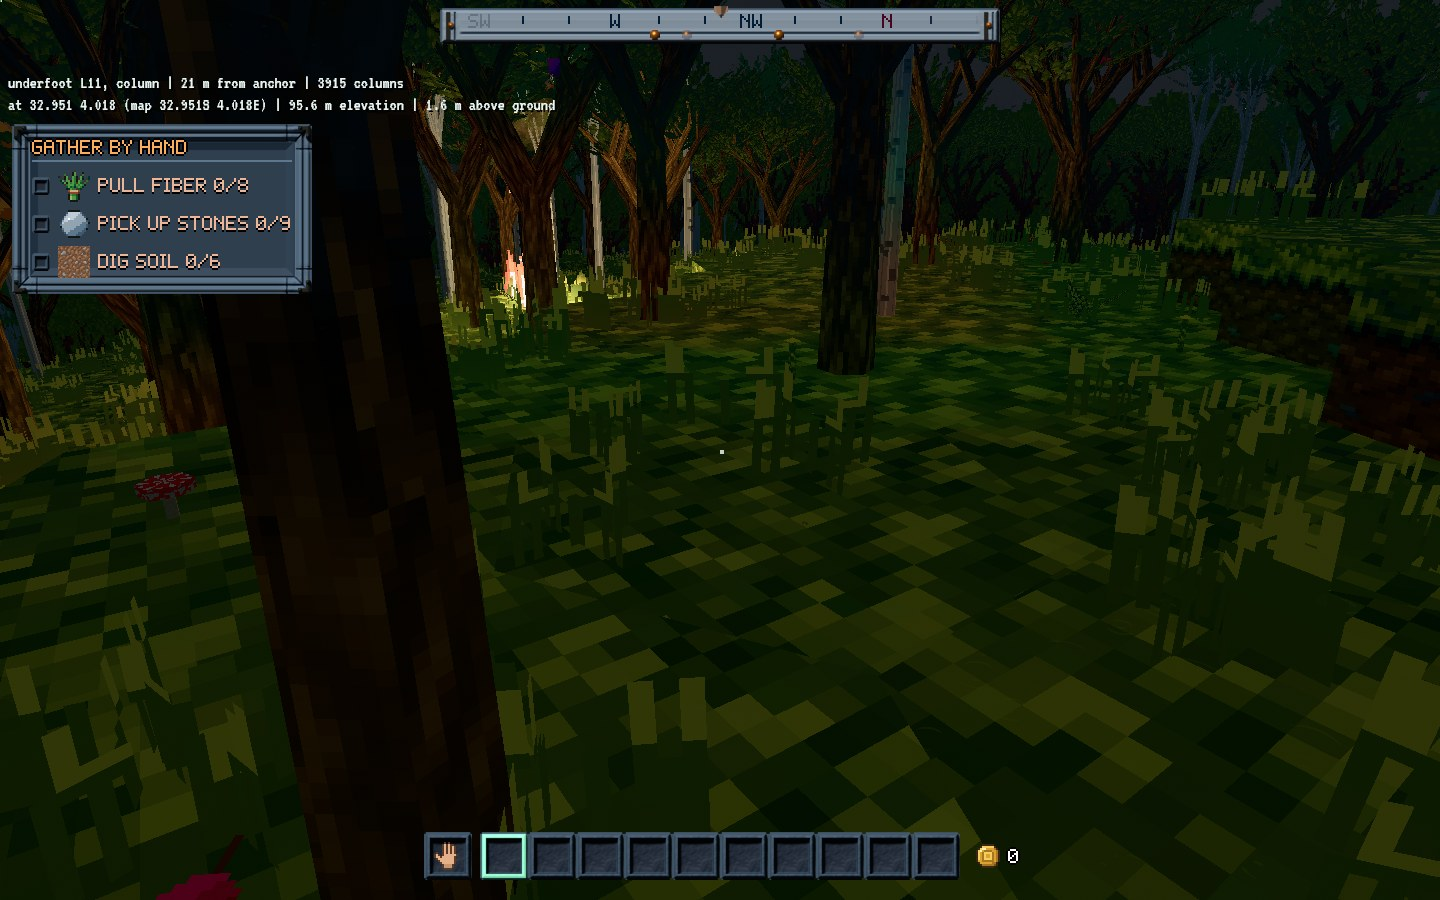
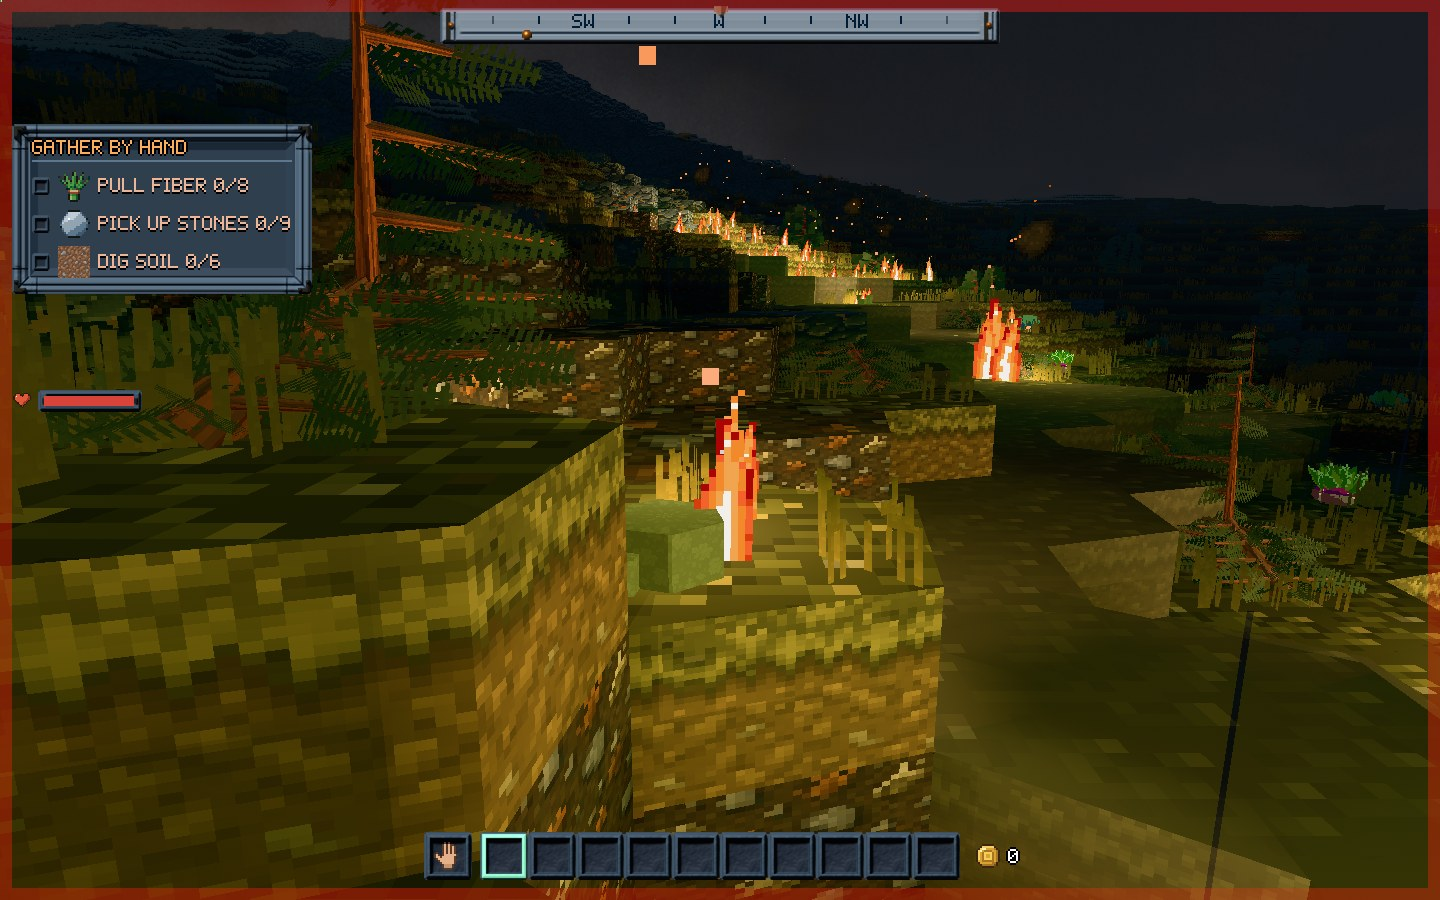
wildfire 4.2: the shots retaken so the fire reads
On a dry mountain meadow (found by find_dry_grassland), no debug readout:
a grass fire's front at night at its widest, a pine lit at its foot and
the grass it fired, the same scar the next day with the pine standing
charred, and 30 days on with the grass back and the pine a sapling; a
lamp row and the torch in hand in the rain, lit and then put out. The
torch-out scene now puts out every placed torch from frame 20 on and the
torch in hand too. Rendered on lavapipe; perf_suite.py not run (no GPU).

Claude-Session: https://claude.ai/code/session_01RGPQut43HZDbTofZKV6sxg

diff --git a/crates/pbd-app/src/wildfire.rs b/crates/pbd-app/src/wildfire.rs
@@ -280,7 +280,8 @@ pub struct Scars {
 ///   before the clock, so the shot shows its scar;
 /// - `tree[:<ticks>]` and `tree-snag:<days>`: the same with the driest tree
 ///   in view, burning and then charred;
-/// - `torch-out`: every placed torch put out by the rain.
+/// - `torch-out`: every placed torch, and the torch in hand, put out by the
+///   rain.
 ///
 /// Unset, nothing is forced.
 pub fn capture_scene() -> Option<String> {
@@ -336,6 +337,7 @@ pub fn instrument(
     sun: Option<Res<crate::sky::Sun>>,
     frame: Option<Res<crate::planet::PlanetRenderFrame>>,
     cameras: Query<(&Camera, &GlobalTransform), With<Camera3d>>,
+    mut torch_out: ResMut<TorchOut>,
     mut done: Local<u32>,
 ) {
     let Some(scene) = capture_scene() else {
@@ -364,18 +366,20 @@ pub fn instrument(
         save.identity.mode = Some(pbd_core::survival::WorldMode::Survival);
     }
     *done += 1;
-    // A few frames in, once the camera stands where the shot is taken.
-    if *done != 20 {
-        return;
-    }
-    let cfg = &rules.0;
+    // The rain's work: from a few frames in, every placed torch (whenever
+    // a scripted row puts one down) and the torch in hand are out.
     if scene == "torch-out" {
+        torch_out.held = *done >= 20;
+        if *done < 20 {
+            return;
+        }
         let torches: Vec<(u32, u16)> = save
             .edits
             .all()
             .into_iter()
             .filter(|e| e.material == Material::Torch)
             .map(|e| (e.cell, e.layer))
+            .filter(|&(c, l)| !torch::is_out(&save.records, c, l))
             .collect();
         for (cell, layer) in torches {
             let proposal = Proposal {
@@ -388,6 +392,11 @@ pub fn instrument(
         }
         return;
     }
+    // A few frames in, once the camera stands where the shot is taken.
+    if *done != 20 {
+        return;
+    }
+    let cfg = &rules.0;
     let Some((_, eye)) = cameras.iter().find(|(c, _)| c.is_active) else {
         warn!("FIRE_CAPTURE {scene}: no camera");
         return;

diff --git a/docs/screenshots/wildfire/wildfire.md b/docs/screenshots/wildfire/wildfire.md
@@ -1,30 +1,40 @@
-# wildfire 4.2 and 4.3 in the game
+# wildfire 4.2 to 4.4 in the game
 
 Headless `--capture` stills from a Claude Code cloud container with no GPU,
 rendered on lavapipe (software Vulkan): they show what things look like,
 never how fast they draw; no frame time was measured and `perf_suite.py`
-was not run. Made by `tools/capture_wildfire.sh`; the scene is set by the
-capture instrument `PBD_FIRE=<scene>` (nothing a player meets): the
-memory-only world is made a Survival one, the weather the rule reads is
-held at two dry weeks of late summer, and the instrument lights the driest
-plant in view 5 to 20 m ahead (24 for a scar) with the player's own `wildfire::light`, then
-runs the server's own ticks (`wildfire::run_once`). The fire shots stand on
-a fields wood at `--at 32.9505 4.01833`; the torch shots on the survival
-meadow at `--at -37.5 -84`.
+was not run. Made by `tools/capture_wildfire.sh`, with no debug readout
+(`--no-readout`).
+
+The scene is set by the capture instrument `PBD_FIRE=<scene>` (nothing a
+player meets): the memory-only world is made a Survival one; the air the
+rule reads is held at two dry weeks of late summer with a 3 m/s west wind,
+and the drawn sky is held dry to match; the instrument lights the driest
+plant (or tree) in view 5 to 14 m ahead with the player's own
+`wildfire::light`, then runs the server's own ticks (`wildfire::run_once`)
+to the tick the fire burns widest, found by a dry run of the rule, or, for
+a scar, until it is out, back-dated by its days. The fire shots stand on a
+dry mountain meadow of grass and a few pines at `--at -37.5 -107.5`, found
+by the ignored test `wildfire::tests::find_dry_grassland` (291 of its 421
+cells near read `plant_dry` 0.7 or more in the dry season); the torch shots
+on the survival meadow at `--at -37.5 -84`. `--time` is the world clock's
+hour, not local: at longitude -107.5 the clock's 02:30 is dusk-dark and
+19:12 is about local noon.
 
 | Shot | Scene | What it shows |
 | --- | --- | --- |
-| `front-night.jpg` | `front:25`, 02:30 | A fire at night, ahead between the oaks: the torch sheet's flames on the burning cell, and its light in the cell light field on the trunks, the tufts and the ground round it, under a dim moon. The plant it was lit on reads `plant_dry` 0.77 (an oak wood's floor in late summer), so it is a one- or two-cell fire, as decision 12 wants on marginal ground; the shot is stopped while it still burns. |
-| `scar-next-day.jpg` | `scar:1`, 15:00 | A 20-cell fire's scar a world day later, about 20 m ahead beyond the birch: the burnt cells' tops ash grey in their own texels, no tufts or clutter on them, the green meadow round it untouched (the fire went out at greener ground on its own). |
-| `scar-day-30.jpg` | `scar:30`, 15:00 | The same fire 30 days on: the grass and its tufts are back on every cell (whole by day 8) and the ash is gone. No tree burnt in this fire; a burnt tree would stand here as a sapling of its species, a quarter of the way to whole. |
-| `torch-lit-rain.jpg` | none, 02:30, rain 1 | BEFORE: a placed torch (`--torch`, under the camera) lighting the wet ground round it in the rain. |
-| `torch-out-rain.jpg` | `torch-out`, 02:30, rain 1 | AFTER: the same torch put out by the rain (the world's `lamp_out` record): the field round it is dark. The torch itself stands below the frame; it is still drawn, with no flame (test `wildfire::tests::an_out_torch_is_drawn_dark_and_lights_nothing`). |
+| `front-night.jpg` | `front:90`, night | A grass fire at its widest (31 cells alight, 44 burnt, 70 s in): a line of flame running along the slope ahead and a near cell burning a few metres off, each lighting the grass, the terraces and the pines round it through the cell light field, embers rising. The red edge and the health bar are the harm (`Cause::Fire`): the player stands beside a burning cell. |
+| `tree-burning-night.jpg` | `tree:25`, night | A pine lit at its foot (the small pine on the right), and the fire it started in the dry grass round it, 28 cells alight 25 s in: flames on the torch's sheet, embers, the meadow lit orange. |
+| `tree-snag-next-day.jpg` | `tree-snag:1`, local noon | The same kind of fire's scar a world day after it went out (165 cells), from a few metres off: the burnt ground ash grey with no tufts or clutter, and the pine standing charred where it burnt (centre: a ground fire's look, its own model with the needles browned and the foot black). The axe takes it for charcoal. |
+| `tree-snag-day-30.jpg` | `tree-snag:30`, local noon | The same view 30 world days after: the grass and its tufts are back on every burnt cell (whole by day 8), the ash gone, and the burnt pine a sapling of its own species (right), a quarter of the way to whole; it stands full-grown again at day 60. |
+| `torch-lit-rain.jpg` | none, night, rain 1 | BEFORE: a row of every lamp 3 m ahead (`--lamps`), the placed torch among them burning (its light the orange on the tree behind), and the torch in hand alight, in the rain. |
+| `torch-out-rain.jpg` | `torch-out`, night, rain 1 | AFTER: the rain has put out the torch in hand (drawn, its head with no flame) and the placed torch (the world's `lamp_out` record; it stands just out of frame, and the orange its light threw on the tree behind is gone); the lanterns beside it, which the rain does not put out, still burn. |
 
 Unsure of, for the owner:
-- The fires in these shots are small: the wood's floor is shaded and near
-  the generator's streams, so it sits near the 0.5 line. A larger front
-  wants an open, dry field away from water, which this capture's spot is not.
-- The ash is a flat warm grey with the tile's grain; the mockup's has more
-  variation, and the shoots of day 2 are not drawn apart from it.
-- Smoke at night reads faintly; its puffs are lit by the field, so they are
-  dark away from the flames.
+- Smoke reads faintly at night: its puffs are lit by the field and glow a
+  little over the flames, and go dark against the night sky above them.
+- The ash is a flat warm grey with the tile's grain; the shoots of day 2
+  are not drawn apart from it.
+- A ground fire leaves a tree standing scorched (whole model, foot black,
+  leaves browned); only a very dry conifer in 6 m/s of wind or more burns
+  in its crown and leaves the bare snag, which no shot here shows.

diff --git a/openspec/changes/wildfire/tasks.md b/openspec/changes/wildfire/tasks.md
@@ -17,7 +17,7 @@ mockup first; game code waits on their approval and a request to build.
 
 - [x] 3.1 `pbd_core::fire`: the fuel table from the generator (design 3), the `blaze` record and its lines, the one-second spread in cell-key order with seeded hashes, reading each neighbour's `plant_dry` (design 5), no ember throw, the limits (2 blazes, 300 cells, 40 burning). Verify: the design's Verification tests, decision 12's worked examples inside their ranges, a pentagon's five neighbours, and two runs and a reload mid-fire agreeing cell for cell. Tests: `fire::tests::a_late_summer_grass_fire_stays_small_and_slow`, `a_fire_on_open_dry_grass_stops_at_its_limits`, `a_pentagon_cell_tries_its_five_neighbours`, `the_same_blaze_burns_the_same_cells_on_two_runs_and_across_a_reload`, `a_torch_on_late_summer_grass_starts_a_blaze_and_a_third_is_a_damp_flame`, `lightning_starts_a_blaze_only_when_dry_and_once_in_its_quiet_spell`.
 - [x] 3.2 Stopping (design 7): rain, water, bare and green breaks, grazed pasture, the bucket, the yield set; a burnt cell unburnable until its grass is whole (design 8). Verify: a test each; a player's field and fence untouched. Tests: `fire::tests::rain_stops_a_front`, `a_front_goes_out_at_a_green_river_bank`, `a_bucket_puts_out_a_cell_and_its_neighbours`, `a_dug_line_and_the_players_field_hold`, `a_burnt_cell_cannot_burn_again_until_its_grass_is_whole`.
-- [x] 3.3 The scar and regrowth (design 8), charcoal from a snag. Verify: tests by day. Test: `fire::tests::the_scar_grows_back_by_day` (`scar::snag_gives` gives the charcoal; the chop in the game is 4.2's).
+- [x] 3.3 The scar and regrowth (design 8), charcoal from a snag. Verify: tests by day. Test: `fire::tests::the_scar_grows_back_by_day` (`scar::snag_gives` gives the charcoal); in the game the axe on a snag gives `charcoal` and fells it, test `wildfire::tests::a_snag_chopped_gives_charcoal_and_is_felled`.
 - [x] 3.4 `assets/config/fire.ron` (design 11), validated, the one source of defaults. Test: `fire::tests::the_shipped_file_parses_and_validates`.
 
 ## 4. In the game
@@ -25,7 +25,7 @@ mockup first; game code waits on their approval and a request to build.
 - [x] 4.1 The server ticks blazes in Survival worlds only; ignition by a lit torch (design 6). Verify: an app test that a torch on late-summer grass starts a blaze and on spring-green grass does not; an Explorer world never makes one. Tests: `wildfire::tests::a_torch_on_late_summer_grass_starts_a_blaze_and_the_server_spreads_it`, `a_torch_on_spring_grass_makes_a_damp_flame_and_explorer_none`.
 - [x] 4.2 Flames, smoke, embers and the fire's light in the cell light field; the burnt-cell table for the ground and tree draws. Verify: `--capture` shots at night at the front, the scar the next day and at day 30, in `docs/screenshots/wildfire/`; on the owner's hardware, `perf_suite.py` before and after with a forced blaze (not in a cloud session). Built: `wildfire/fx.rs` (flames on the torch sheet, embers, field-lit smoke, snags and saplings from the tree's own model), the fire's light as lamps in the column tier (`ColumnTier::set_fire`), the scar in the tier's record words and the ash bit in `planet_surface.wgsl`. Shots in `docs/screenshots/wildfire/` (`wildfire.md`), lavapipe; `perf_suite.py` waits for the owner's hardware.
 - [x] 4.3 Torches in the rain (design 9): `lamp_out`, the held torch, relighting. Verify: an app test with forced rain, a roof keeping one lit, a reload keeping one out; Explorer's never going out. Tests: `wildfire::tests::a_placed_torch_goes_out_in_forced_rain_and_a_roof_keeps_one_lit`, `an_out_torch_is_drawn_dark_and_lights_nothing`; the held torch and F's relighting in `desktop/fire_play.rs` (design, "As built: in the game").
-- [ ] 4.4 Danger to the living (design 10). Verify: an app test that standing in fire hurts and animals flee. Built: the player's harm and warmth (`desktop/fire_play.rs`), `harm_at` and `flee_from` (test `wildfire::tests::standing_in_fire_hurts_and_animals_flee`). Open: wiring `flee_from` into the herds, whose file is in another change's hands.
+- [x] 4.4 Danger to the living (design 10). Verify: an app test that standing in fire hurts and animals flee. Built: the player's harm and warmth (`desktop/fire_play.rs`), `harm_at` and `flee_from` (test `wildfire::tests::standing_in_fire_hurts_and_animals_flee`). Every animal runs from fire in the herds' step (`husbandry::fire_goal`), test `husbandry::tests::animals_run_from_a_burning_cell`.
 - [ ] 4.5 The dry strike, once `lightning-fire` is built (design 6), with its quiet spell (10 world days within 2 km). Verify: a `--strike-at` test in a dry place and a wet one, and a second strike in the quiet spell starting nothing.
 - [ ] 4.6 Multiplayer: two clients, one fire. Verify: the two-machine procedure (`multiplayer` design 20) shows the same scar.
 

diff --git a/openspec/changes/wildfire/design.md b/openspec/changes/wildfire/design.md
@@ -602,14 +602,27 @@ Recommendations taken (ask only with screenshots):
 - **Danger**: the player's harm is `harm_at` (in a burning cell, within
   0.6 of a cell; beside it, within 1.5 cells), taken a whole point at a
   time through the survival server (`Cause::Fire`), and the warmth is
-  `survival.ron`'s `wildfire` row. Animals' flight is `flee_from`, built
-  and tested; wiring it into the herds (`husbandry.rs`) waits for the
-  combat change in flight in that file.
-- **Charcoal from a snag** is `scar::snag_gives`; the axe on a snag in
-  the game waits: the axe's chop is the digging change in flight, and a
-  burnt tree's cleared bit hides it from `grows_tree` meanwhile.
-- **Capture instrument**: `PBD_FIRE=front[:ticks] | scar:<days> |
-  torch-out` (`wildfire::capture_scene`), `tools/capture_wildfire.sh`.
+  `survival.ron`'s `wildfire` row. Every animal, wild, kept or hunting,
+  within `flee_m` of a burning cell runs 12 m on away from the nearest
+  flame at its run (`husbandry::fire_goal`); a herd's members, standing
+  together, run the same way, and a kept animal stays in its pen.
+- **Charcoal from a snag**: a burnt tree standing charred (`Snag` or
+  `Scorched`) is a trunk the axe meets; its one stroke gives
+  `snag.count` of a new good, `charcoal` (worth what coal is; as a forge
+  fuel it waits on the forge's own change), and fells the tree in the
+  same line (`wildfire::take_snag`), so its stump regrows as a felled
+  tree's does and the snag leaves the draw. A sapling gives none.
+- **The settled climate opens as before.** A shipped settled climate (a
+  `PBDATM04` state) restores every field it carries to the byte; a state
+  saved now writes the newer header and the wetness after it
+  (`atmosphere::settled_tests::a_new_world_opens_on_the_settled_climate`).
+- **Capture instrument**: `PBD_FIRE=front[:ticks] | tree[:ticks] |
+  scar:<days> | tree-snag:<days> | torch-out` (`wildfire::capture_scene`),
+  `tools/capture_wildfire.sh`. The shots stand on a dry mountain meadow
+  found by the ignored `wildfire::tests::find_dry_grassland`: the fields
+  biome is wooded everywhere (about a third of its cells stand a tree), so
+  its floor sits near the 0.5 line and its fires stay one or two cells,
+  as decision 12 means them to.
 
 ## Questions for the owner (with screenshots), 2026-11-26
 
